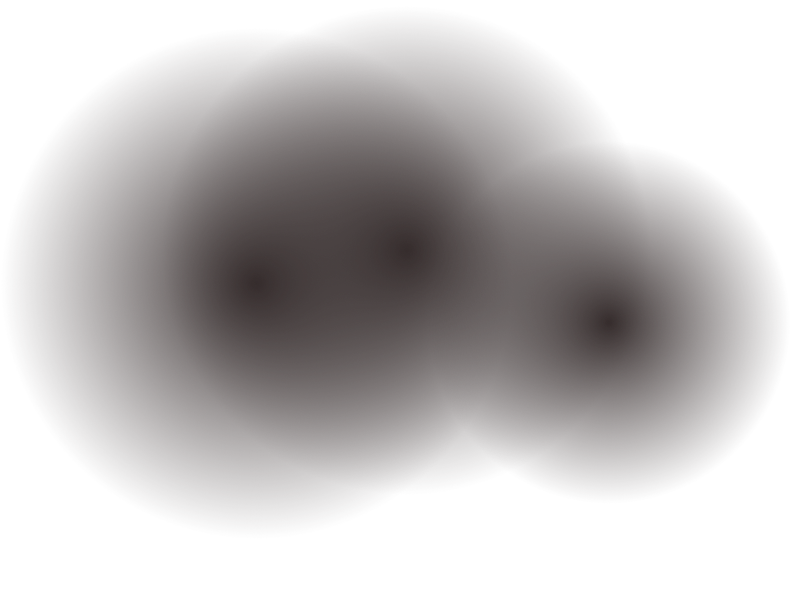
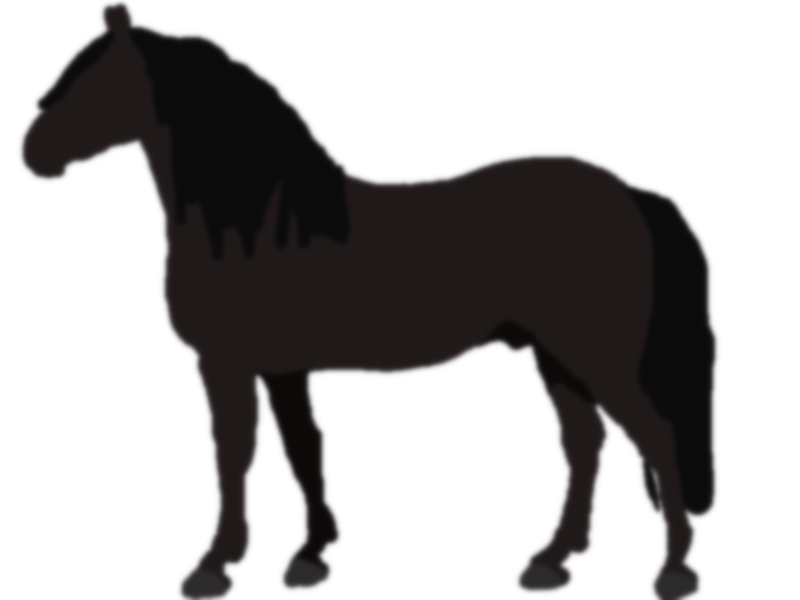
visual tweaks

diff --git a/main.js b/main.js
@@ -86,6 +86,7 @@ function randomAllele(gene) {
   return Math.random() < gene.rarity ? gene.dominant : gene.recessive;
 }
 
+// todo: rewrite these confusing ass functions
 function randomGenotype(gene) {
   const first = randomAllele(gene);
   const second = gene.maxDominant === 1 ? gene.recessive : randomAllele(gene);
@@ -97,21 +98,6 @@ function randomGenotypes() {
     Object.entries(GENES).map(([name, gene]) => [name, randomGenotype(gene)])
   );
 }
-
-// function randomAllele(dominant, recessive) {
-//     return Math.random() < 0.5 ? dominant : recessive;
-// }
-
-// function randomGenotypes() {
-//     const red = randomAllele("E", "e") + randomAllele("E", "e");
-//     const agouti = randomAllele("A", "a") + randomAllele("A", "a");
-//     const cream = randomAllele("C", "c") + randomAllele("C", "c");
-//     const tobiano = randomAllele("T", "t") + randomAllele("t", "t");
-//     const roan = randomAllele("R", "r") + randomAllele("r", "r");
-//     const dun = randomAllele("D", "d") + randomAllele("d", "d");
-//     const gray = randomAllele("G", "g") + randomAllele("g", "g");
-//     return { red, agouti, cream, tobiano, roan, dun, gray };
-// }
 
 function reroll(horse) {
     if (horse === "horse-foal") {

diff --git a/index.html b/index.html
@@ -29,6 +29,7 @@
         <div class="parents">
             <div class="mom">
                 <div class="horse" id="horse-mom">
+                <img src="background.png" alt="">
                     <img class="horse-base" src="base-coats/bay.png" alt="">
                     <div class="overlays">
                         <img class="tobiano" src="overlays/tobiano.png" alt="">
@@ -40,6 +41,7 @@
             </div>
             <div class="dad">
                 <div class="horse" id="horse-dad">
+                <img src="background.png" alt="">
                     <img class="horse-base" src="base-coats/black.png" alt="">
                     <div class="overlays">
                         <img class="tobiano" src="overlays/tobiano.png" alt="">
